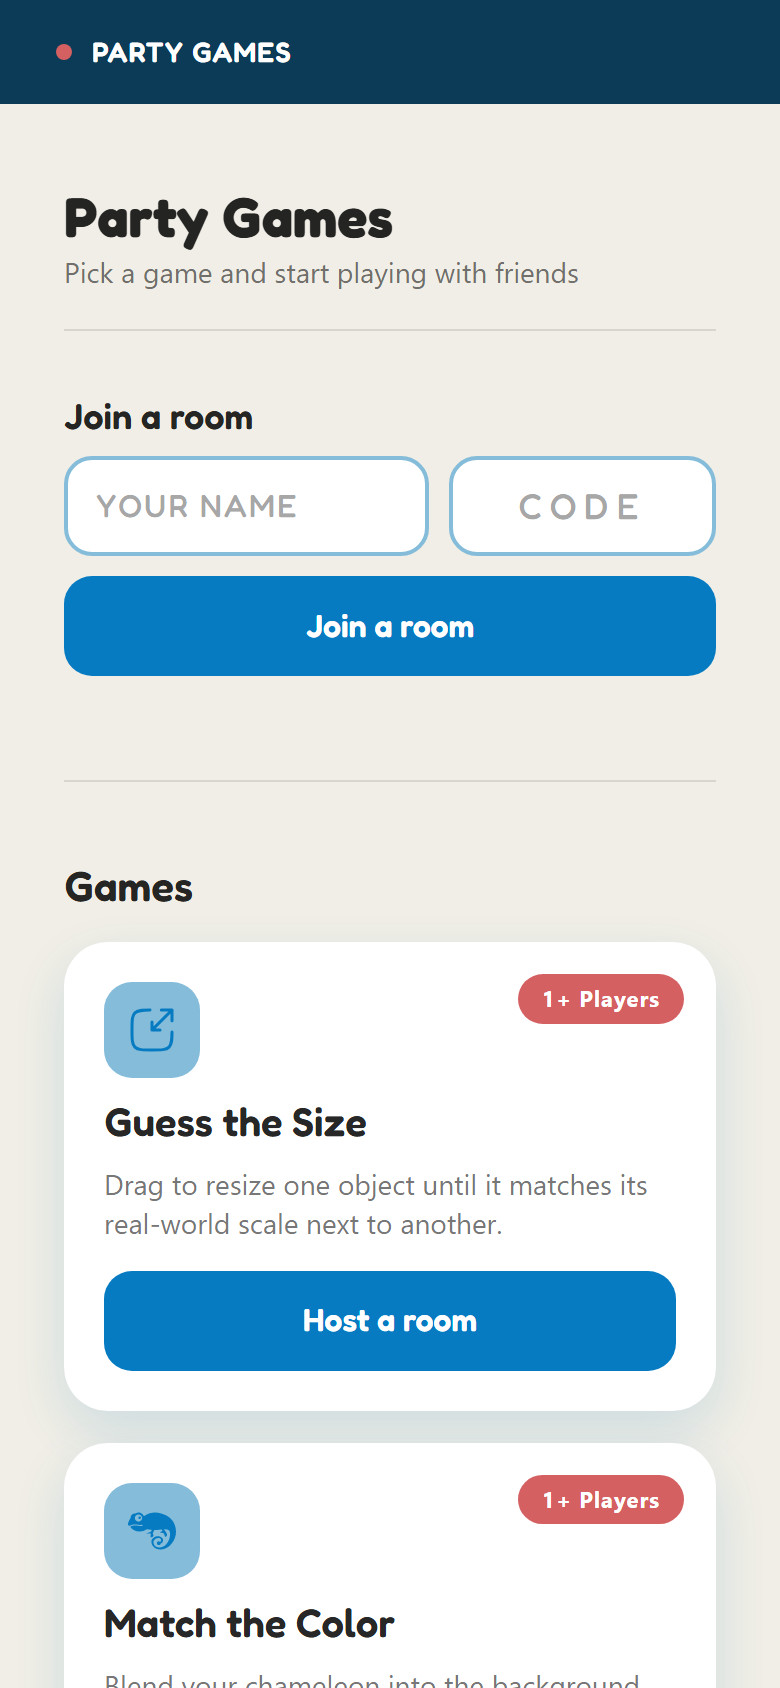
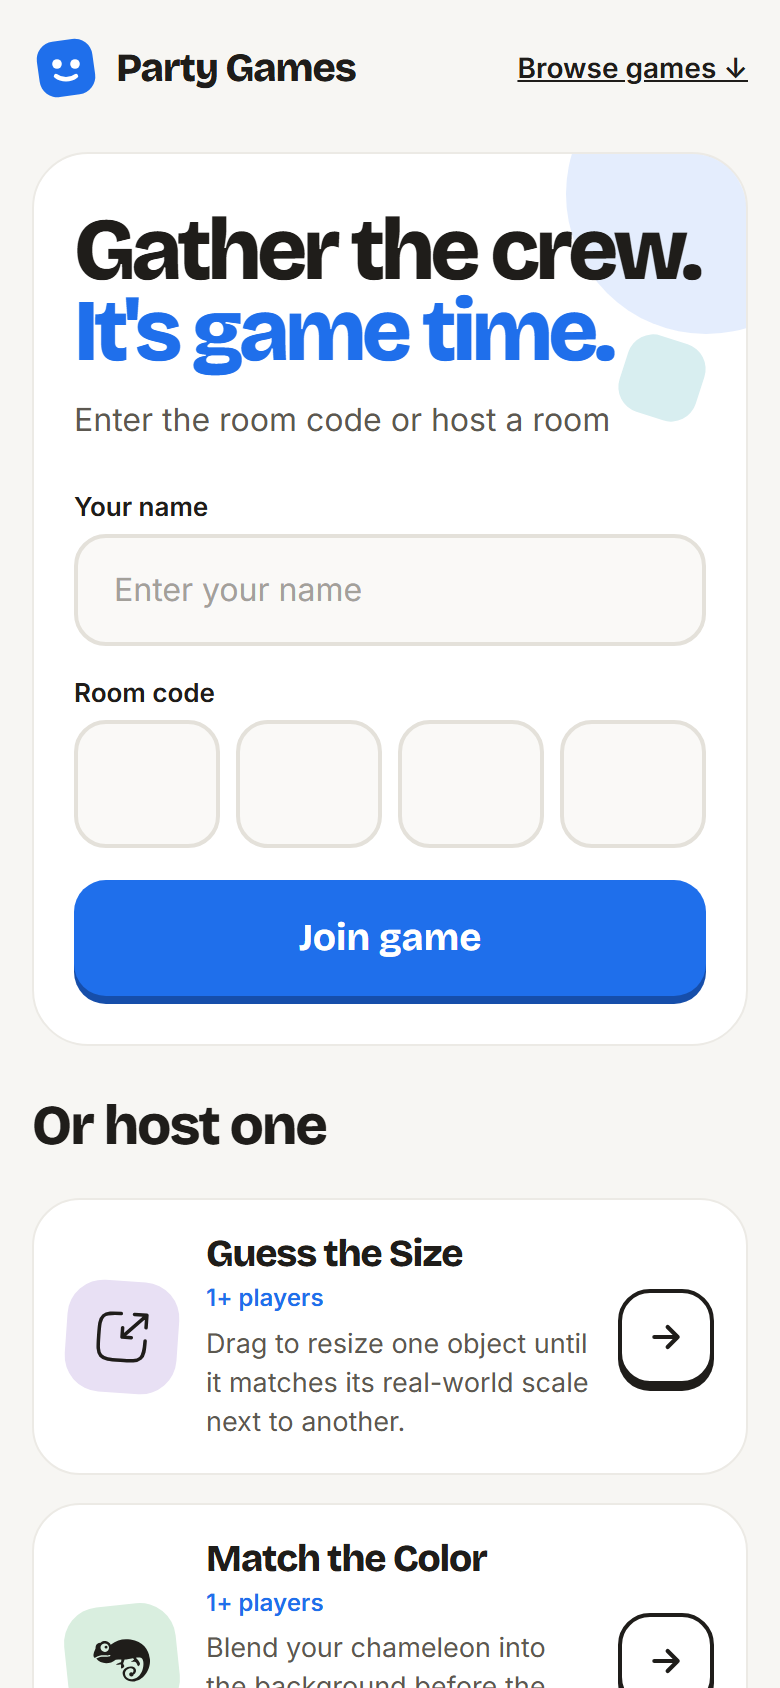
[chore] Update README screenshot

diff --git a/public/index.html b/public/index.html
@@ -29,7 +29,7 @@
           <div class="hero-blob hero-blob-square" aria-hidden="true"></div>
 
           <div class="hero-copy">
-            <h1>Grab your phones.<br /><span class="hero-accent">It's game time.</span></h1>
+            <h1>Gather the crew.<br /><span class="hero-accent">It's game time.</span></h1>
             <p>Enter the room code or host a room</p>
           </div>
 
